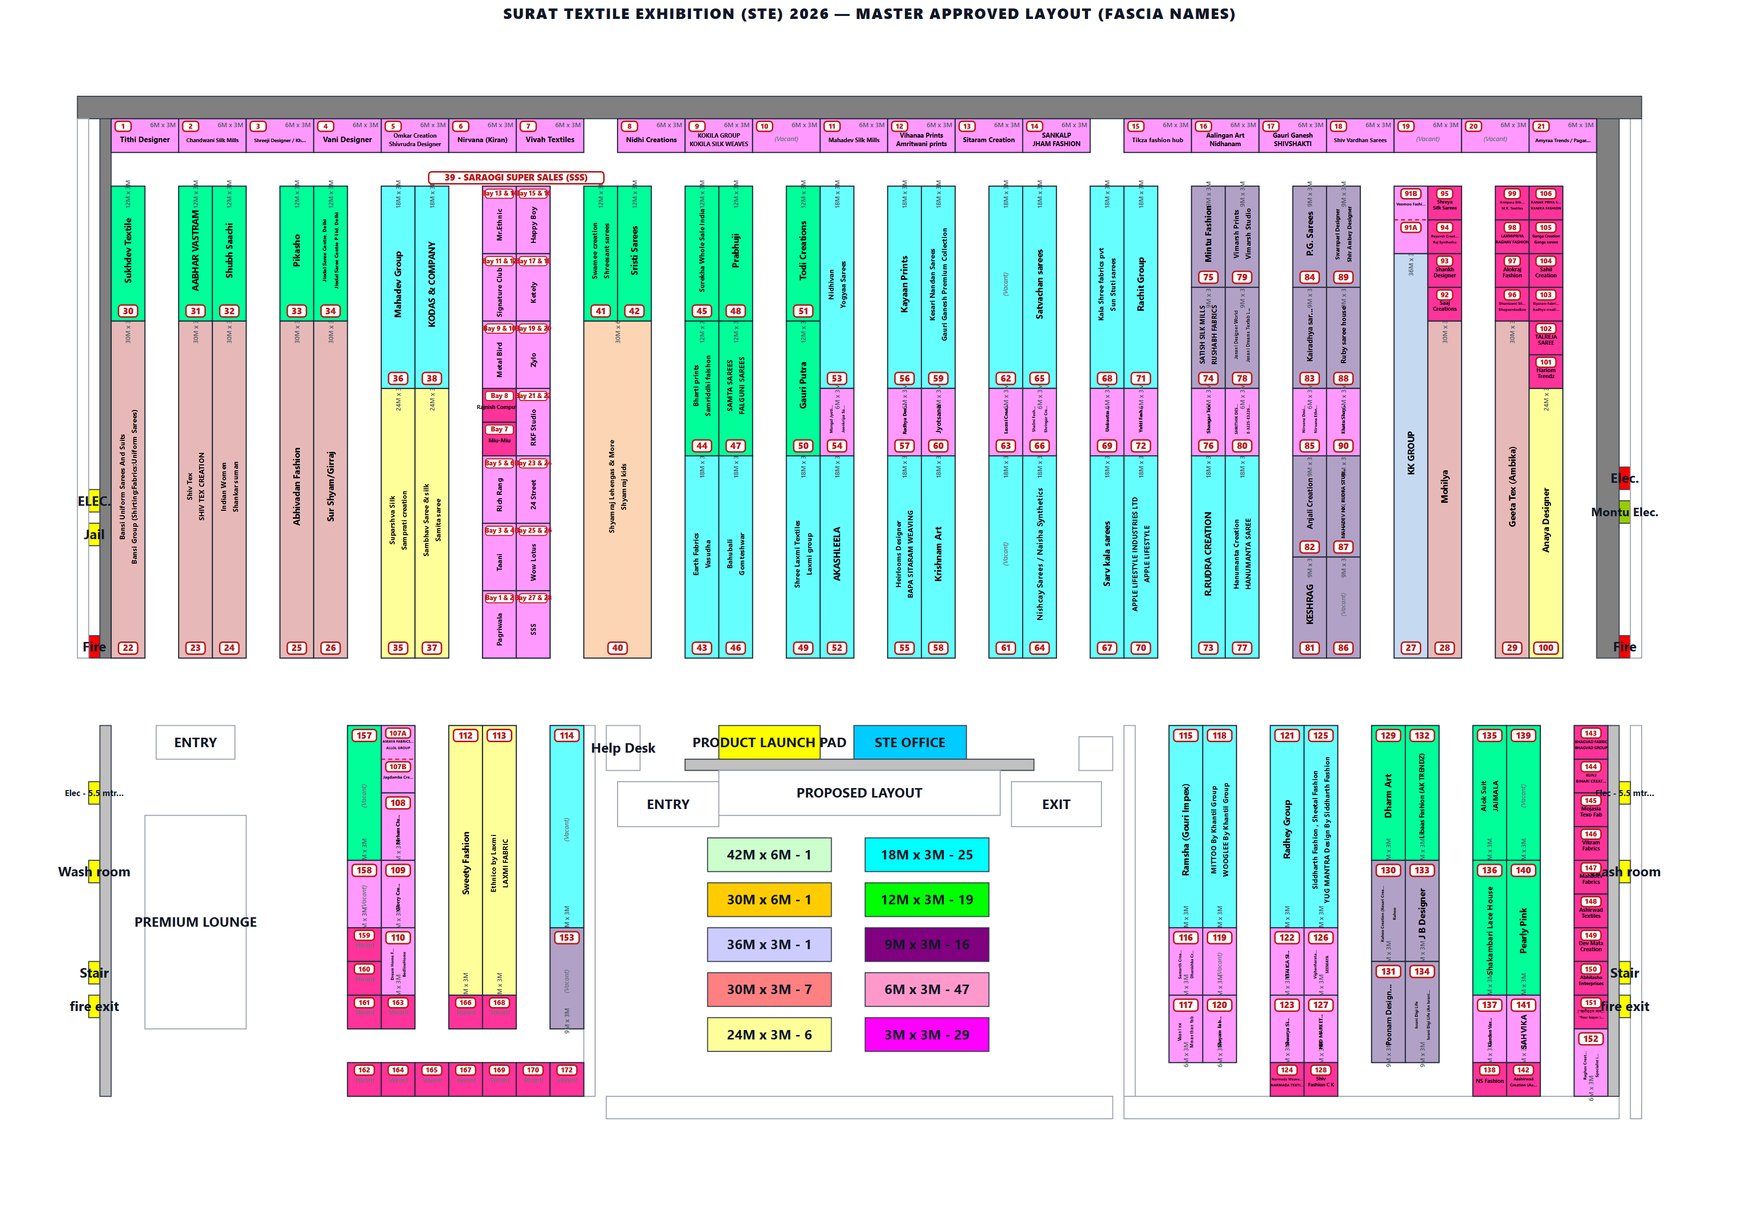
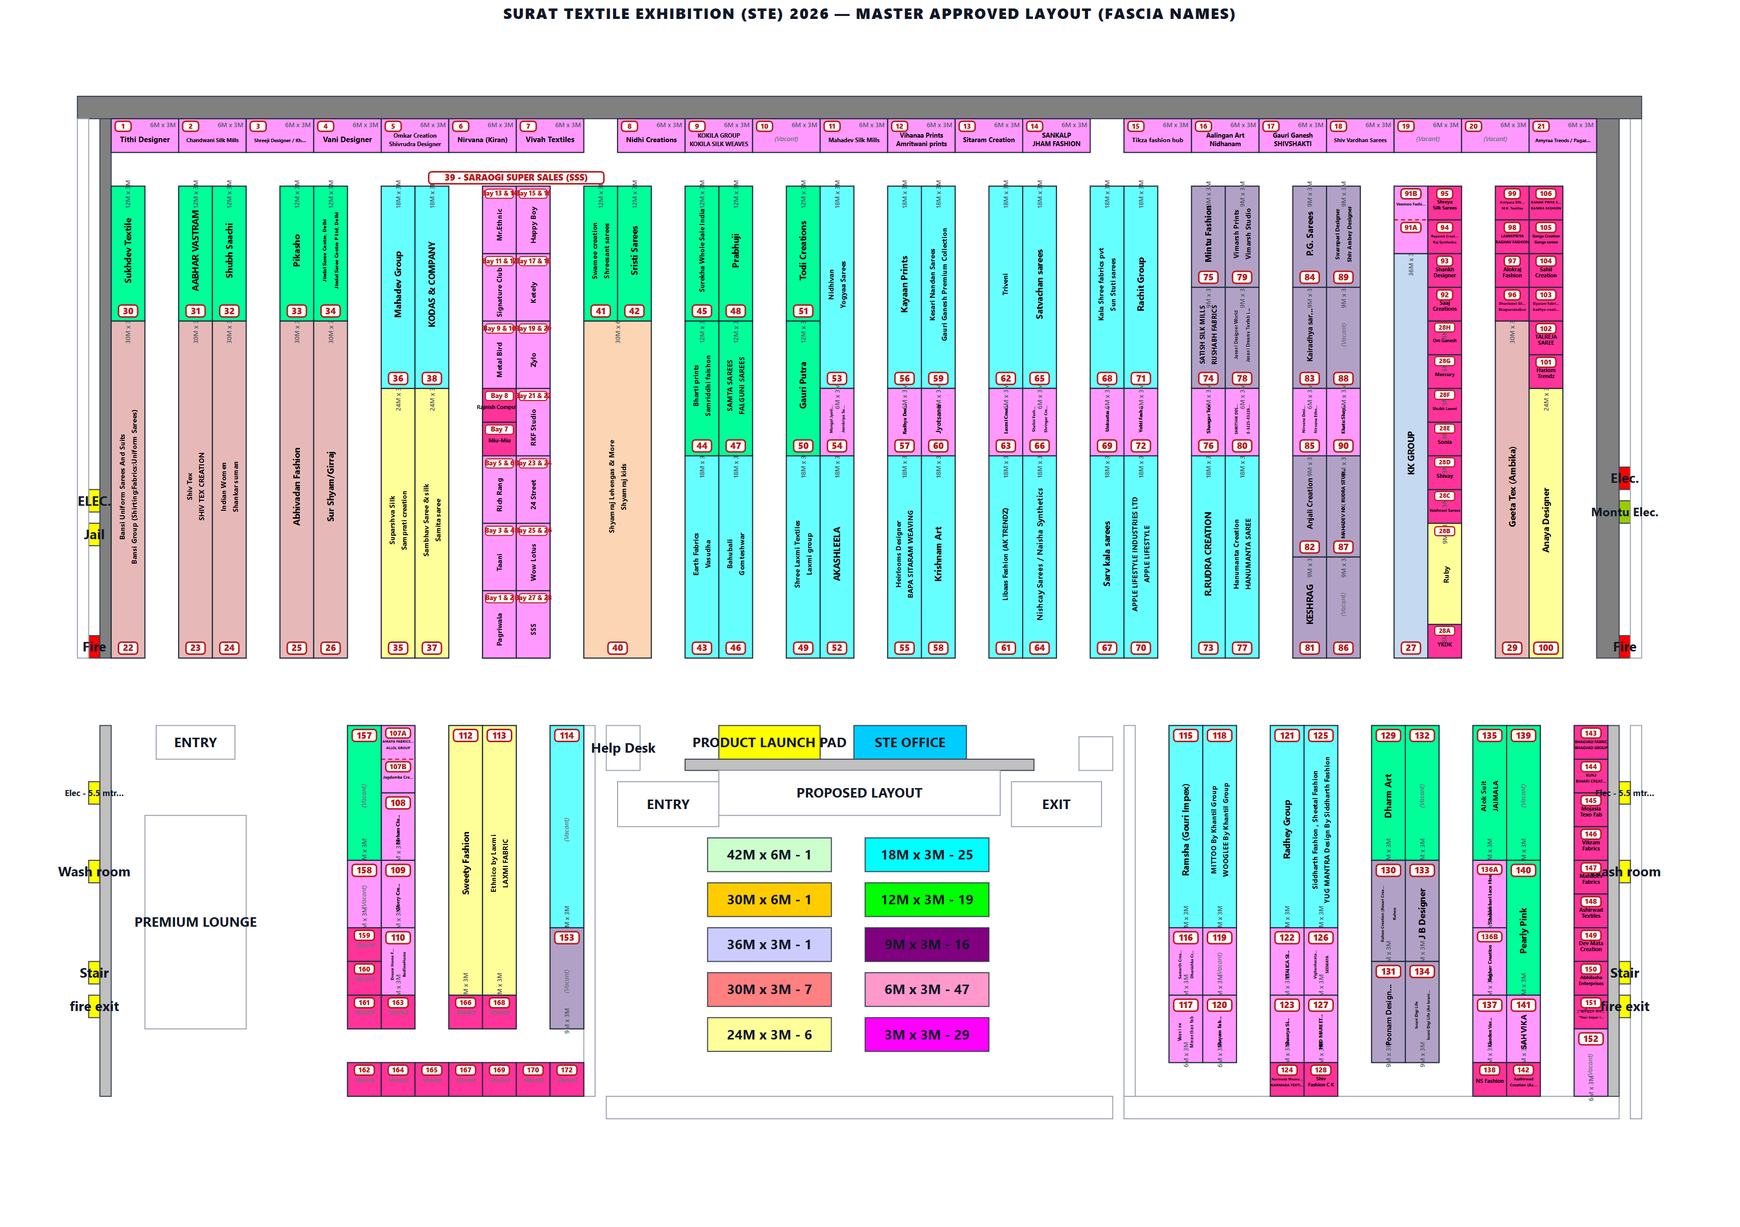
feat(layout): reorganize stalls 136, 28, 61, 88, 132, 152
- Split bay 136 (400 sqft) into 136A (200 sqft, Shakambari Lace House) and 136B (200 sqft, Raghav Creation).
- Split bay 28 (1000 sqft) into 28A-28H (28B 300 sqft for Ruby; 28A, 28C-28H 100 sqft placeholders).
- Reseat Libaas Fashion (AK TRENDZ) on stall 61 (600 sqft).
- Earmark stall 62 (600 sqft) for Triveni placeholder.
- Vacate stalls 88, 132, and 152.
- Execute Supabase migration to archive old draws and seat the 4 real firms in the database.
- Update layout SVG, raster PNGs, and regenerate fascia_map.json.

Changed region(s): [[0.8125, 0.2472, 0.8438, 0.5561], [0.8438, 0.6797, 0.875, 0.8341]]

diff --git a/src/data/stallAllotment2026.ts b/src/data/stallAllotment2026.ts
@@ -224,6 +224,32 @@
  *        so 141 belongs to the saree 200 block and the draw - not the
  *        organisers - decides who ends up in the south hall. A rerun of
  *        scripts/number_stalls.py must not send them back to 100 sqft.
+ *   136A Shakambari Lace House, downsized to 200 sqft on the north half of bay 136
+ *        (organisers, 5 Sep 2026). Held so their downsized stall is locked.
+ *   136B Raghav Creation, moved off bay 152 onto the south half of bay 136 (200 sqft)
+ *        (organisers, 5 Sep 2026). Held so their move is locked.
+ *   28A..28H Eight-way split of bay 28 along its lobby-facing frontage (organisers, 5 Sep 2026):
+ *        28A: YKDK (100 sqft, placeholder, held)
+ *        28B: Ruby (300 sqft, moved off bay 88, held)
+ *        28C: Vaishnavi Sarees (100 sqft, placeholder, held)
+ *        28D: Shivay (100 sqft, placeholder, held)
+ *        28E: Sonia (100 sqft, placeholder, held)
+ *        28F: Shubh Laxmi (100 sqft, placeholder, held)
+ *        28G: Mercury (100 sqft, placeholder, held)
+ *        28H: Om Ganesh (100 sqft, placeholder, held)
+ *        Mohilya (9722771233) removed from bay 28 with registered sqft (1000) intact.
+ *   61   Libaas Fashion (AK TRENDZ), upsized to 600 sqft and moved off bay 132 onto 61
+ *        (organisers, 5 Sep 2026). Held so their move & upsize is locked.
+ *   62   Triveni (600 sqft placeholder, organisers, 5 Sep 2026). Replaces stale
+ *        Nidhivan / Yogayaa row whose real live stall is 53.
+ *   88, 132, 152 stand empty / vacated. Ruby moved 88 -> 28B; Libaas Fashion moved
+ *        132 -> 61; Raghav Creation moved 152 -> 136B. Clearing 88 also fixes the
+ *        stale Swarnpari Design entry.
+ *
+ *   Durability note: unlike standard single-unit held rows, the split into multiple units
+ *   for bays 136 and 28 is outside number_stalls.py's standard 2-piece saree generator logic.
+ *   If scripts/number_stalls.py --allotment is ever rerun, these split units and the hand-edited
+ *   SVG must be reapplied by hand.
  */
 
 export type AllotmentPool = "Saree" | "General";
@@ -300,8 +326,22 @@ export const ALLOTMENTS_2026: Allotment2026[] = [
     group: "Lehenga",                   mobile: "",            sheetSize: "3m x 30m",  areaSqft: 1000,  pool: "Saree",    zone: "North Hall",         held: false },
   { unitId: "27",    stallNumber: 27,   brand: "K.K. Garments", category: "Fabric/Garment",
     group: "Dress Material & Fabrics",  mobile: "",            sheetSize: "3m x 36m",  areaSqft: 1200,  pool: "General",  zone: "North Hall",         held: true },
-  { unitId: "28",    stallNumber: 28,   brand: "Mohilya", category: "Kurties",
-    group: "Kurti",                     mobile: "9722771233",  sheetSize: "3m x 30m",  areaSqft: 1000,  pool: "General",  zone: "North Hall",         held: false },
+  { unitId: "28A",   stallNumber: 28,   brand: "YKDK", category: "Kurties",
+    group: "Kurti",                     mobile: "",            sheetSize: "3m x 3m",   areaSqft: 100,   pool: "General",  zone: "North Hall",         held: true },
+  { unitId: "28B",   stallNumber: 28,   brand: "Ruby", category: "Saree",
+    group: "Saree",                     mobile: "9829085935",  sheetSize: "3m x 9m",   areaSqft: 300,   pool: "General",  zone: "North Hall",         held: true },
+  { unitId: "28C",   stallNumber: 28,   brand: "Vaishnavi Sarees", category: "Kurties",
+    group: "Kurti",                     mobile: "",            sheetSize: "3m x 3m",   areaSqft: 100,   pool: "General",  zone: "North Hall",         held: true },
+  { unitId: "28D",   stallNumber: 28,   brand: "Shivay", category: "Kurties",
+    group: "Kurti",                     mobile: "",            sheetSize: "3m x 3m",   areaSqft: 100,   pool: "General",  zone: "North Hall",         held: true },
+  { unitId: "28E",   stallNumber: 28,   brand: "Sonia", category: "Kurties",
+    group: "Kurti",                     mobile: "",            sheetSize: "3m x 3m",   areaSqft: 100,   pool: "General",  zone: "North Hall",         held: true },
+  { unitId: "28F",   stallNumber: 28,   brand: "Shubh Laxmi", category: "Kurties",
+    group: "Kurti",                     mobile: "",            sheetSize: "3m x 3m",   areaSqft: 100,   pool: "General",  zone: "North Hall",         held: true },
+  { unitId: "28G",   stallNumber: 28,   brand: "Mercury", category: "Kurties",
+    group: "Kurti",                     mobile: "",            sheetSize: "3m x 3m",   areaSqft: 100,   pool: "General",  zone: "North Hall",         held: true },
+  { unitId: "28H",   stallNumber: 28,   brand: "Om Ganesh", category: "Kurties",
+    group: "Kurti",                     mobile: "",            sheetSize: "3m x 3m",   areaSqft: 100,   pool: "General",  zone: "North Hall",         held: true },
   { unitId: "29",    stallNumber: 29,   brand: "Geeta Tex (Ambika)", category: "Suit",
     group: "Suits",                     mobile: "",            sheetSize: "3m x 30m",  areaSqft: 1000,  pool: "General",  zone: "North Hall",         held: false },
   { unitId: "30",    stallNumber: 30,   brand: "Sukhdev Textile", category: "Sarees",
@@ -366,8 +406,10 @@ export const ALLOTMENTS_2026: Allotment2026[] = [
     group: "Saree",                     mobile: "",            sheetSize: "3m x 18m",  areaSqft: 600,   pool: "Saree",    zone: "North Hall",         held: false },
   { unitId: "60",    stallNumber: 60,   brand: "Jyotsna", category: "Saree",
     group: "Saree",                     mobile: "9898866093",  sheetSize: "3m x 6m",   areaSqft: 200,   pool: "Saree",    zone: "North Hall",         held: true },
-  { unitId: "62",    stallNumber: 62,   brand: "Nidhivan / Yogayaa", category: "Sarees",
-    group: "Saree",                     mobile: "7052577725",  sheetSize: "3m x 18m",  areaSqft: 600,   pool: "Saree",    zone: "North Hall",         held: false },
+  { unitId: "61",    stallNumber: 61,   brand: "Libaas Fashion (AK TRENDZ)", category: "Kurti",
+    group: "Kurti",                     mobile: "9374739383",  sheetSize: "3m x 18m",  areaSqft: 600,   pool: "General",  zone: "North Hall",         held: true },
+  { unitId: "62",    stallNumber: 62,   brand: "Triveni", category: "Sarees",
+    group: "Saree",                     mobile: "",            sheetSize: "3m x 18m",  areaSqft: 600,   pool: "General",  zone: "North Hall",         held: false },
   { unitId: "63",    stallNumber: 63,   brand: "Tithi Designer", category: "Saree",
     group: "Saree",                     mobile: "9662399969",  sheetSize: "3m x 6m",   areaSqft: 200,   pool: "Saree",    zone: "North Hall",         held: false },
   { unitId: "64",    stallNumber: 64,   brand: "Nishcay Sarees / Naisha Synthetics", category: "Saree",
@@ -414,12 +456,10 @@ export const ALLOTMENTS_2026: Allotment2026[] = [
     group: "Saree",                     mobile: "",            sheetSize: "3m x 9m",   areaSqft: 300,   pool: "Saree",    zone: "North Hall",         held: false },
   { unitId: "85",    stallNumber: 85,   brand: "Khatu Shyam", category: "Lehanga Choli",
     group: "Lehenga",                   mobile: "9825550213",  sheetSize: "3m x 6m",   areaSqft: 200,   pool: "Saree",    zone: "North Hall",         held: false },
-  { unitId: "86",    stallNumber: 86,   brand: "Ruby", category: "Saree",
-    group: "Saree",                     mobile: "9829085935",  sheetSize: "3m x 9m",   areaSqft: 300,   pool: "Saree",    zone: "North Hall",         held: false },
+  { unitId: "86",    stallNumber: 86,   brand: "", category: "",
+    group: "Saree",                     mobile: "",            sheetSize: "3m x 9m",   areaSqft: 300,   pool: "Saree",    zone: "North Hall",         held: false },
   { unitId: "87",    stallNumber: 87,   brand: "Satish Dresses", category: "Uniform Saree",
     group: "Saree",                     mobile: "9825122634",  sheetSize: "3m x 9m",   areaSqft: 300,   pool: "Saree",    zone: "North Hall",         held: false },
-  { unitId: "88",    stallNumber: 88,   brand: "Swarnpari Design", category: "Sarees",
-    group: "Saree",                     mobile: "",            sheetSize: "3m x 9m",   areaSqft: 300,   pool: "Saree",    zone: "North Hall",         held: false },
   { unitId: "89",    stallNumber: 89,   brand: "Vimarsh Prints", category: "Saree",
     group: "Saree",                     mobile: "",            sheetSize: "3m x 9m",   areaSqft: 300,   pool: "Saree",    zone: "North Hall",         held: false },
   { unitId: "90",    stallNumber: 90,   brand: "Nirvana Designer", category: "Lehenga",
@@ -504,16 +544,16 @@ export const ALLOTMENTS_2026: Allotment2026[] = [
     group: "Kurti",                     mobile: "",            sheetSize: "3m x 9m",   areaSqft: 300,   pool: "General",  zone: "South Hall",         held: false },
   { unitId: "131",   stallNumber: 131,  brand: "Kuhu Creation (Kesari Creation)", category: "Kurti",
     group: "Kurti",                     mobile: "",            sheetSize: "3m x 9m",   areaSqft: 300,   pool: "General",  zone: "South Hall",         held: false },
-  { unitId: "132",   stallNumber: 132,  brand: "Libaas Fashion (AK TRENDZ)", category: "Kurti",
-    group: "Kurti",                     mobile: "",            sheetSize: "3m x 12m",  areaSqft: 400,   pool: "General",  zone: "South Hall",         held: false },
   { unitId: "133",   stallNumber: 133,  brand: "Poonam Designer", category: "Kurties",
     group: "Kurti",                     mobile: "9377062128",  sheetSize: "3m x 9m",   areaSqft: 300,   pool: "General",  zone: "South Hall",         held: false },
   { unitId: "134",   stallNumber: 134,  brand: "Israni Entertainment", category: "Entertainment",
     group: "Men's Wear",                mobile: "",            sheetSize: "3m x 9m",   areaSqft: 300,   pool: "General",  zone: "South Hall",         held: false },
   { unitId: "135",   stallNumber: 135,  brand: "Alok Suit", category: "Suit",
     group: "Suits",                     mobile: "",            sheetSize: "3m x 12m",  areaSqft: 400,   pool: "General",  zone: "South Hall",         held: false },
-  { unitId: "136",   stallNumber: 136,  brand: "Shakambari Lace House", category: "Lace Materials",
-    group: "Dress Material & Fabrics",  mobile: "9982170219",  sheetSize: "3m x 12m",  areaSqft: 400,   pool: "General",  zone: "South Hall",         held: false },
+  { unitId: "136A",  stallNumber: 136,  brand: "Shakambari Lace House", category: "Lace Materials",
+    group: "Dress Material & Fabrics",  mobile: "9982170219",  sheetSize: "3m x 6m",   areaSqft: 200,   pool: "General",  zone: "South Hall",         held: true },
+  { unitId: "136B",  stallNumber: 136,  brand: "Raghav Creation", category: "Fabrics",
+    group: "Dress Material & Fabrics",  mobile: "9830944345",  sheetSize: "3m x 6m",   areaSqft: 200,   pool: "General",  zone: "South Hall",         held: true },
   { unitId: "137",   stallNumber: 137,  brand: "Garden Vareli", category: "Sarees / Dress Material",
     group: "Saree",                     mobile: "6357238663",  sheetSize: "3m x 6m",   areaSqft: 200,   pool: "General",  zone: "South Hall",         held: true },
   { unitId: "138",   stallNumber: 138,  brand: "Bhagvad Fabrics", category: "Fabrics",
@@ -542,17 +582,14 @@ export const ALLOTMENTS_2026: Allotment2026[] = [
     group: "Home & Other",              mobile: "9824131004",  sheetSize: "3m x 3m",   areaSqft: 100,   pool: "General",  zone: "South Hall",         held: false },
   { unitId: "151",   stallNumber: 151,  brand: "Dream Delta", category: "Books",
     group: "Home & Other",              mobile: "8200203732",  sheetSize: "3m x 3m",   areaSqft: 100,   pool: "General",  zone: "South Hall",         held: true },
-  { unitId: "152",   stallNumber: 152,  brand: "Raghav Creation", category: "Fabrics",
-    group: "Dress Material & Fabrics",  mobile: "9830944345",  sheetSize: "3m x 6m",   areaSqft: 200,   pool: "General",  zone: "South Hall",         held: true },
 ];
 
 /** Stalls the saree brands drew from. */
 export const SAREE_POOL_STALLS: number[] = [1, 2, 3, 4, 5, 6, 7, 8, 9, 10, 11, 12, 13, 14, 15, 16, 17, 18, 19, 20, 21, 22, 23, 24, 25, 26, 30, 31, 32, 33, 34, 35, 36, 37, 38, 39, 40, 41, 42, 43, 44, 45, 46, 47, 48, 49, 50, 51, 52, 53, 54, 55, 56, 57, 58, 59, 60, 61, 62, 63, 64, 65, 66, 67, 68, 69, 70, 71, 72, 73, 74, 75, 76, 77, 78, 79, 80, 81, 82, 83, 84, 85, 86, 87, 88, 89, 90, 91, 92, 93, 94, 95, 96, 97, 98, 99, 100, 101, 102, 103, 104, 105, 106, 107];
 
-/** Bays cut into lettable parts: the 200 sqft bays 91 and 107, halved to
- *  cover the saree pool's 100 sqft demand. Bay 100 is left whole - the
- *  organisers want the 800 sqft anchor let as one stall, not in parts. */
-export const SPLIT_BAYS_2026: number[] = [91, 107];
+/** Bays cut into lettable parts: the 200 sqft bays 91, 107, 136, and 1000 sqft bay 28.
+ *  Bay 100 is left whole - the organisers want the 800 sqft anchor let as one stall, not in parts. */
+export const SPLIT_BAYS_2026: number[] = [91, 107, 136, 28];
 
 export function findAllotmentByMobile(mobile: string) {
   const key = mobile.replace(/\D/g, "").slice(-10);

diff --git a/src/data/stallMap2026.ts b/src/data/stallMap2026.ts
@@ -118,7 +118,16 @@ export const STALL_MAP_2026: Stall2026[] = [
   { stallNumber: 25,  size: "30M x 3M",  sheetSize: "3m x 30m",  areaSqm: 90,   areaSqft: 1000,  zone: "North Hall",         widthM:  3, depthM: 30, x:  125.30, y: 148.89, w:  16.92, h: 168.96, legacyNumber: "106" },
   { stallNumber: 26,  size: "30M x 3M",  sheetSize: "3m x 30m",  areaSqm: 90,   areaSqft: 1000,  zone: "North Hall",         widthM:  3, depthM: 30, x:  142.22, y: 148.89, w:  16.92, h: 168.96, legacyNumber: "105" },
   { stallNumber: 27,  size: "36M x 3M",  sheetSize: "3m x 36m",  areaSqm: 108,  areaSqft: 1200,  zone: "North Hall",         widthM:  3, depthM: 36, x:  683.64, y: 115.09, w:  16.92, h: 202.75, legacyNumber: "103", reservedFor: "K.K. Garments" },
-  { stallNumber: 28,  size: "30M x 3M",  sheetSize: "3m x 30m",  areaSqm: 90,   areaSqft: 1000,  zone: "North Hall",         widthM:  3, depthM: 30, x:  700.56, y: 148.89, w:  16.92, h: 168.96, legacyNumber: "106" },
+  { stallNumber: 28,  size: "30M x 3M",  sheetSize: "3m x 30m",  areaSqm: 90,   areaSqft: 1000,  zone: "North Hall",         widthM:  3, depthM: 30, x:  700.56, y: 148.89, w:  16.92, h: 168.96, legacyNumber: "106", halves: [
+    { id: "28A", size: "3M x 3M", x: 700.56, y: 300.95, w: 16.92, h: 16.90 },
+    { id: "28B", size: "9M x 3M", x: 700.56, y: 250.26, w: 16.92, h: 50.69 },
+    { id: "28C", size: "3M x 3M", x: 700.56, y: 233.37, w: 16.92, h: 16.90 },
+    { id: "28D", size: "3M x 3M", x: 700.56, y: 216.47, w: 16.92, h: 16.90 },
+    { id: "28E", size: "3M x 3M", x: 700.56, y: 199.57, w: 16.92, h: 16.90 },
+    { id: "28F", size: "3M x 3M", x: 700.56, y: 182.68, w: 16.92, h: 16.90 },
+    { id: "28G", size: "3M x 3M", x: 700.56, y: 165.78, w: 16.92, h: 16.90 },
+    { id: "28H", size: "3M x 3M", x: 700.56, y: 148.89, w: 16.92, h: 16.90 },
+  ] },
   { stallNumber: 29,  size: "30M x 3M",  sheetSize: "3m x 30m",  areaSqm: 90,   areaSqft: 1000,  zone: "North Hall",         widthM:  3, depthM: 30, x:  734.39, y: 148.89, w:  16.92, h: 168.96, legacyNumber: "105" },
   { stallNumber: 30,  size: "12M x 3M",  sheetSize: "3m x 12m",  areaSqm: 36,   areaSqft: 400,   zone: "North Hall",         widthM:  3, depthM: 12, x:   40.71, y:  81.30, w:  16.92, h:  67.58, legacyNumber: undefined },
   { stallNumber: 31,  size: "12M x 3M",  sheetSize: "3m x 12m",  areaSqm: 36,   areaSqft: 400,   zone: "North Hall",         widthM:  3, depthM: 12, x:   74.54, y:  81.30, w:  16.92, h:  67.58, legacyNumber: undefined },
@@ -242,7 +251,10 @@ export const STALL_MAP_2026: Stall2026[] = [
   { stallNumber: 133, size: "9M x 3M",   sheetSize: "3m x 9m",   areaSqm: 27,   areaSqft: 300,   zone: "South Hall",         widthM:  3, depthM:  9, x:  689.28, y: 419.22, w:  16.92, h:  50.69, legacyNumber: undefined },
   { stallNumber: 134, size: "9M x 3M",   sheetSize: "3m x 9m",   areaSqm: 27,   areaSqft: 300,   zone: "South Hall",         widthM:  3, depthM:  9, x:  689.28, y: 469.91, w:  16.92, h:  50.69, legacyNumber: undefined },
   { stallNumber: 135, size: "12M x 3M",  sheetSize: "3m x 12m",  areaSqm: 36,   areaSqft: 400,   zone: "South Hall",         widthM:  3, depthM: 12, x:  723.11, y: 351.64, w:  16.92, h:  67.58, legacyNumber: undefined },
-  { stallNumber: 136, size: "12M x 3M",  sheetSize: "3m x 12m",  areaSqm: 36,   areaSqft: 400,   zone: "South Hall",         widthM:  3, depthM: 12, x:  723.11, y: 419.22, w:  16.92, h:  67.58, legacyNumber: undefined },
+  { stallNumber: 136, size: "12M x 3M",  sheetSize: "3m x 12m",  areaSqm: 36,   areaSqft: 400,   zone: "South Hall",         widthM:  3, depthM: 12, x:  723.11, y: 419.22, w:  16.92, h:  67.58, legacyNumber: undefined, halves: [
+    { id: "136A", size: "6M x 3M", x: 723.11, y: 419.22, w: 16.92, h: 33.79 },
+    { id: "136B", size: "6M x 3M", x: 723.11, y: 453.01, w: 16.92, h: 33.79 },
+  ] },
   { stallNumber: 137, size: "6M x 3M",   sheetSize: "3m x 6m",   areaSqm: 18,   areaSqft: 200,   zone: "South Hall",         widthM:  3, depthM:  6, x:  723.11, y: 486.81, w:  16.92, h:  33.79, legacyNumber: undefined },
   { stallNumber: 138, size: "3M x 3M",   sheetSize: "3m x 3m",   areaSqm: 9,    areaSqft: 100,   zone: "South Hall",         widthM:  3, depthM:  3, x:  723.11, y: 520.60, w:  16.92, h:  16.90, legacyNumber: undefined },
   { stallNumber: 139, size: "12M x 3M",  sheetSize: "3m x 12m",  areaSqm: 36,   areaSqft: 400,   zone: "South Hall",         widthM:  3, depthM: 12, x:  740.03, y: 351.64, w:  16.92, h:  67.58, legacyNumber: undefined },
@@ -311,11 +323,20 @@ export const STALL_UNITS_2026: {
   areaSqft: number;
 }[] = STALL_MAP_2026.flatMap((s) =>
   s.halves
-    ? s.halves.map((h) => ({
-        id: h.id,
-        stallNumber: s.stallNumber,
-        areaSqft: 100,
-      }))
+    ? s.halves.map((h) => {
+        let sqft = 100;
+        if (h.size) {
+          const match = h.size.match(/^(\d+)M\s*x\s*(\d+)M$/i);
+          if (match) {
+            sqft = Math.round((parseInt(match[1], 10) * parseInt(match[2], 10)) / 0.09);
+          }
+        }
+        return {
+          id: h.id,
+          stallNumber: s.stallNumber,
+          areaSqft: sqft,
+        };
+      })
     : [{ id: String(s.stallNumber), stallNumber: s.stallNumber,
          areaSqft: s.areaSqft }]
 );

diff --git a/src/data/registeredExhibitors.ts b/src/data/registeredExhibitors.ts
@@ -88,7 +88,7 @@ export const REGISTERED_EXHIBITORS_LIST: RegisteredExhibitor[] = [
   { mobile: "9925557740", brandName: "Kuhu Creation (Kesari Creation)", stallSqft: "300 sq ft", category: "Kurti", market: "Udhna BRC" },
   { mobile: "9627868411", brandName: "Kunj Bihari Creations", stallSqft: "100 sq ft", category: "Dress Matterial", market: "" },
   { mobile: "9825363009", brandName: "Laxmi Creation", stallSqft: "200 sq ft", category: "Saree", market: "Hojiwala Sachin", aliases: ["9825363099"] },
-  { mobile: "9374739383", brandName: "Libaas Fashion (AK TRENDZ)", stallSqft: "400 sq ft", category: "Kurti", market: "Globale" },
+  { mobile: "9374739383", brandName: "Libaas Fashion (AK TRENDZ)", stallSqft: "600 sq ft", category: "Kurti", market: "Globale" },
   { mobile: "9825505610", brandName: "Mahadev Creations", stallSqft: "600 sq ft", category: "Sarees", market: "M1" },
   { mobile: "9819582727", brandName: "Mahadev Fabrics", stallSqft: "100 sq ft", category: "Fabrics", market: "Raghuveer Scarlett" },
   { mobile: "9909220833", brandName: "Mahadev NX", stallSqft: "300 sq ft", category: "Sarees", market: "" },
@@ -134,7 +134,7 @@ export const REGISTERED_EXHIBITORS_LIST: RegisteredExhibitor[] = [
   { mobile: "9978655007", brandName: "Sarv Kala (V.D)", stallSqft: "600 sq ft", category: "Sarees", market: "M1" },
   { mobile: "9825122634", brandName: "Satish Dresses", stallSqft: "300 sq ft", category: "Uniform Saree", market: "Regent", aliases: ["9825900000"] },
   { mobile: "9099941185", brandName: "Satyavachan", stallSqft: "600 sq ft", category: "Sarees", market: "Raghukul" },
-  { mobile: "9982170219", brandName: "Shakambari Lace House", stallSqft: "400 sq ft", category: "Lace Materials", market: "Behind M2" },
+  { mobile: "9982170219", brandName: "Shakambari Lace House", stallSqft: "200 sq ft", category: "Lace Materials", market: "Behind M2" },
   { mobile: "9898297092", brandName: "Shalini Fashions", stallSqft: "200 sq ft", category: "Sarees", market: "M2" },
   { mobile: "8758832184", brandName: "Shangar Tex", stallSqft: "200 sq ft", category: "Sarees", market: "Old Bombay" },
   { mobile: "7600710440", brandName: "Shankh Designer", stallSqft: "100 sq ft", category: "Sarees", market: "M1", aliases: ["8619183572"] },
